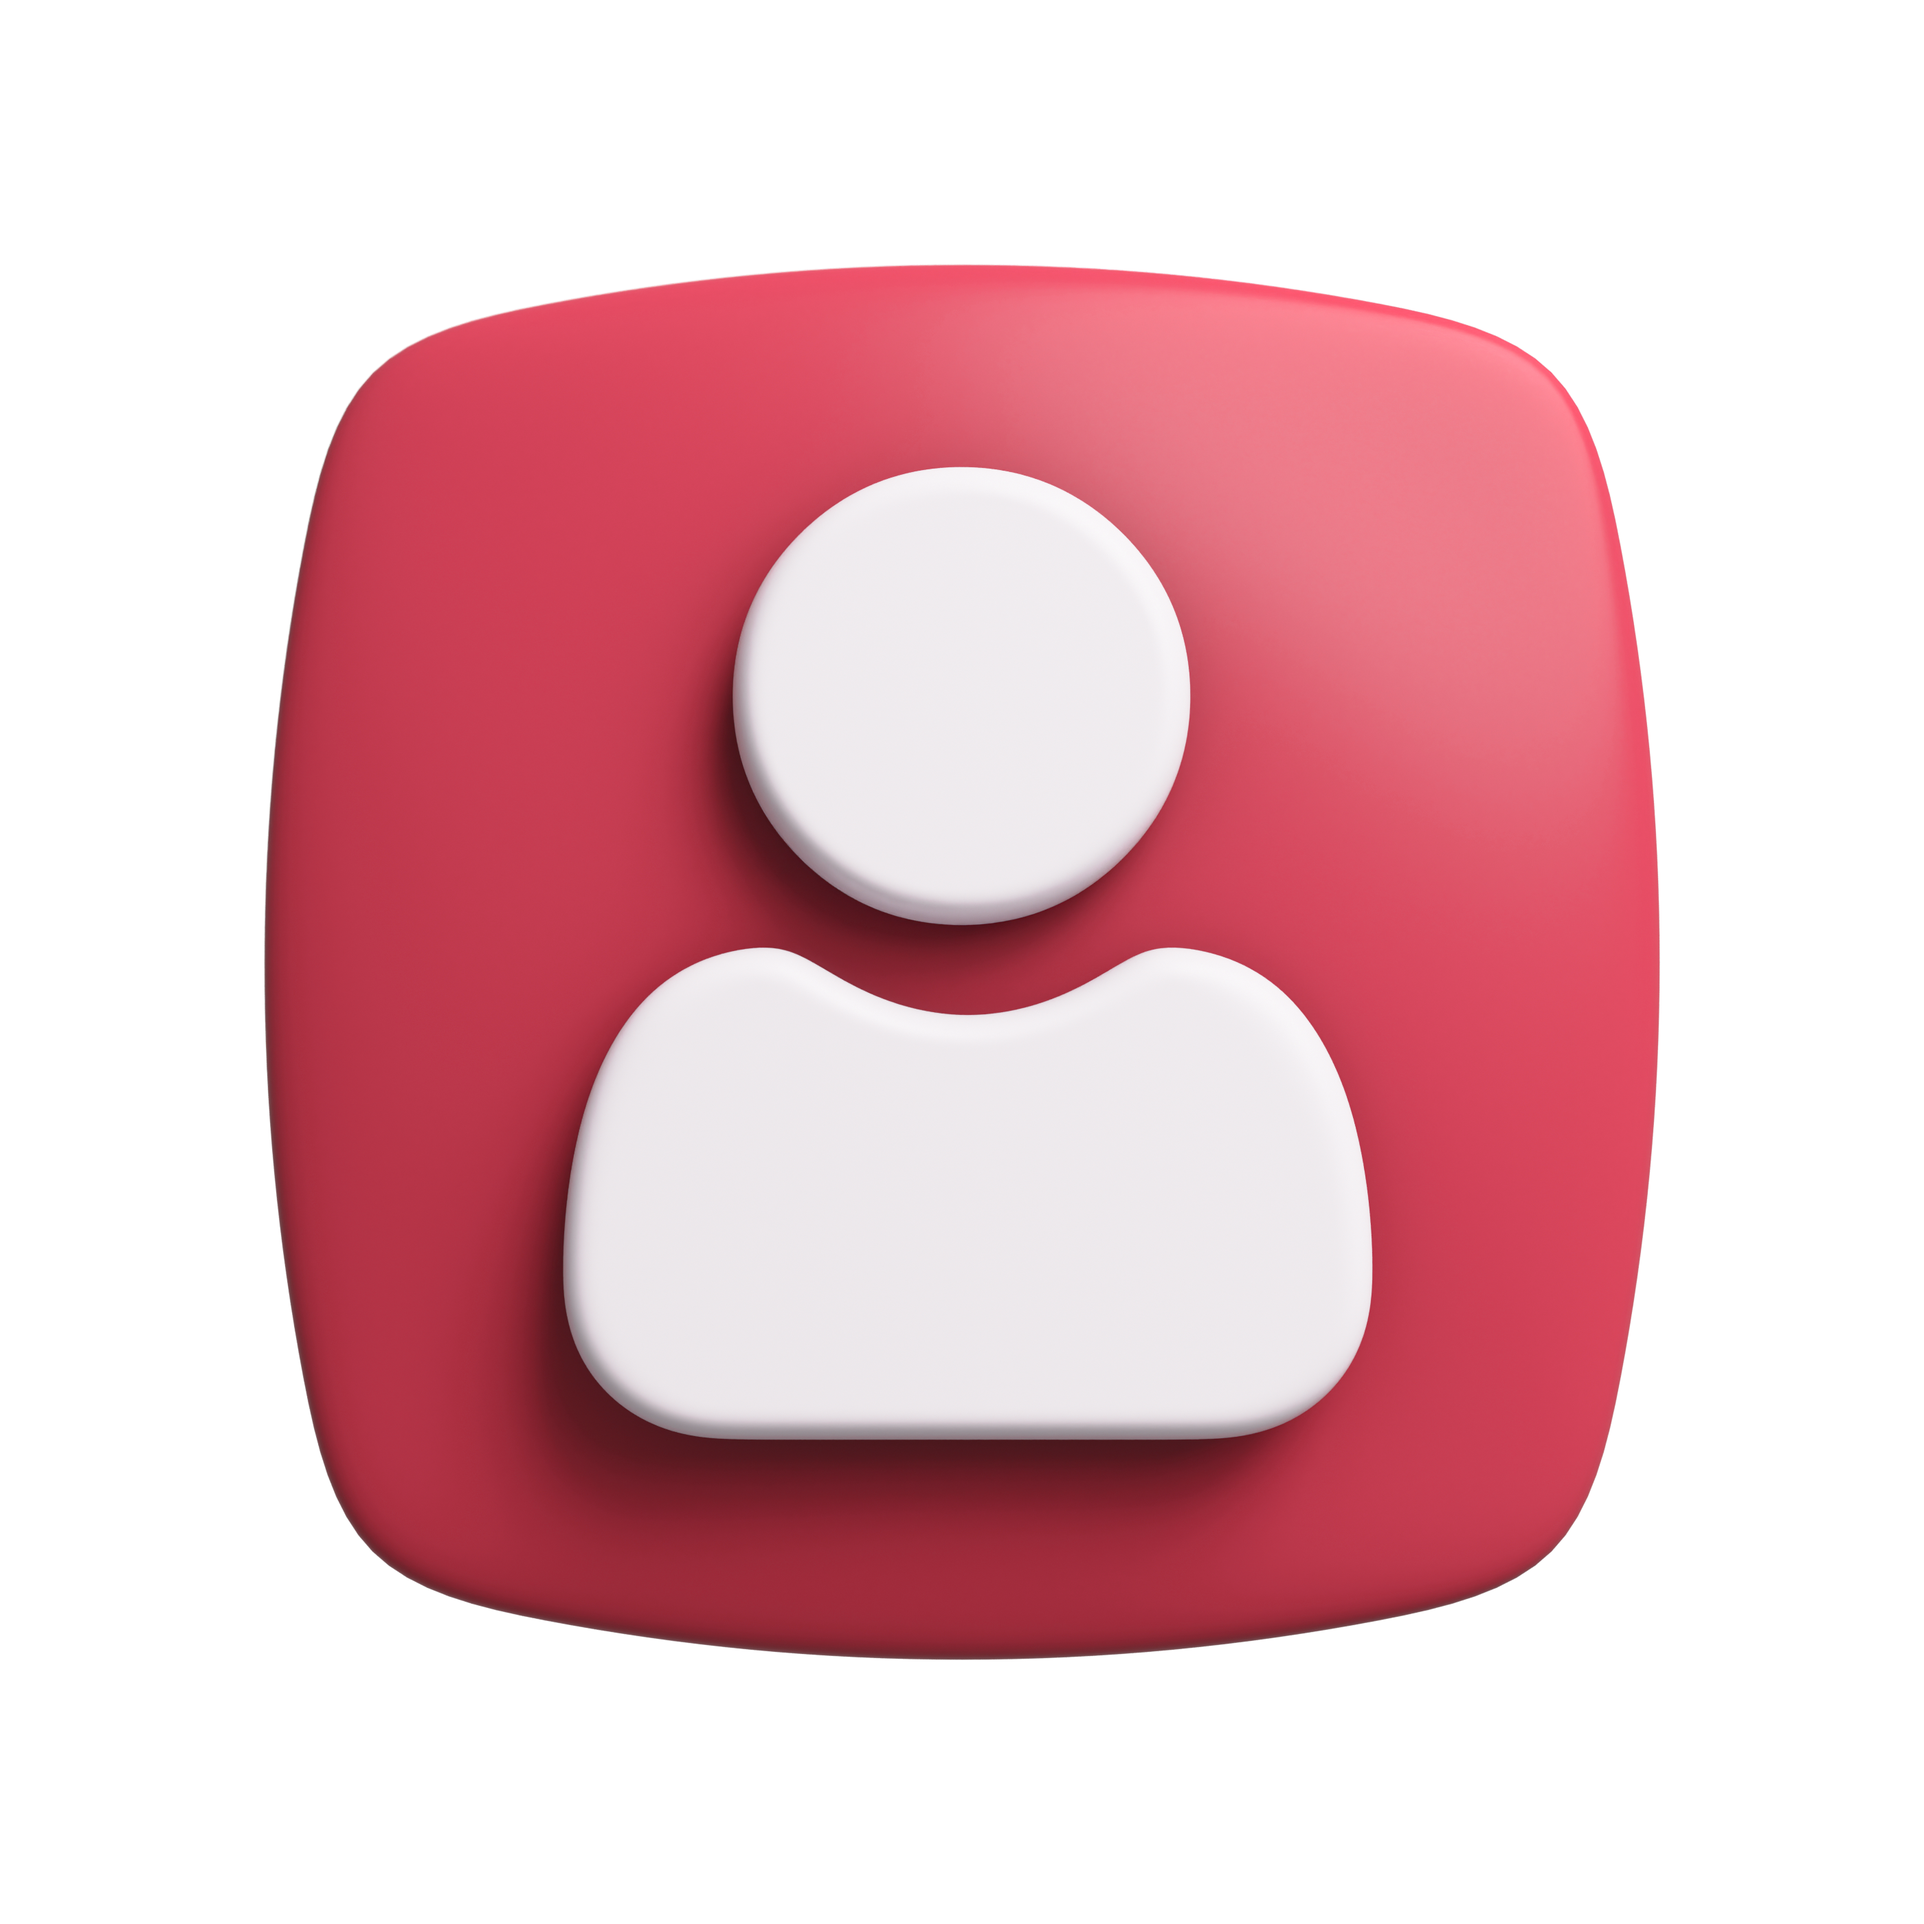
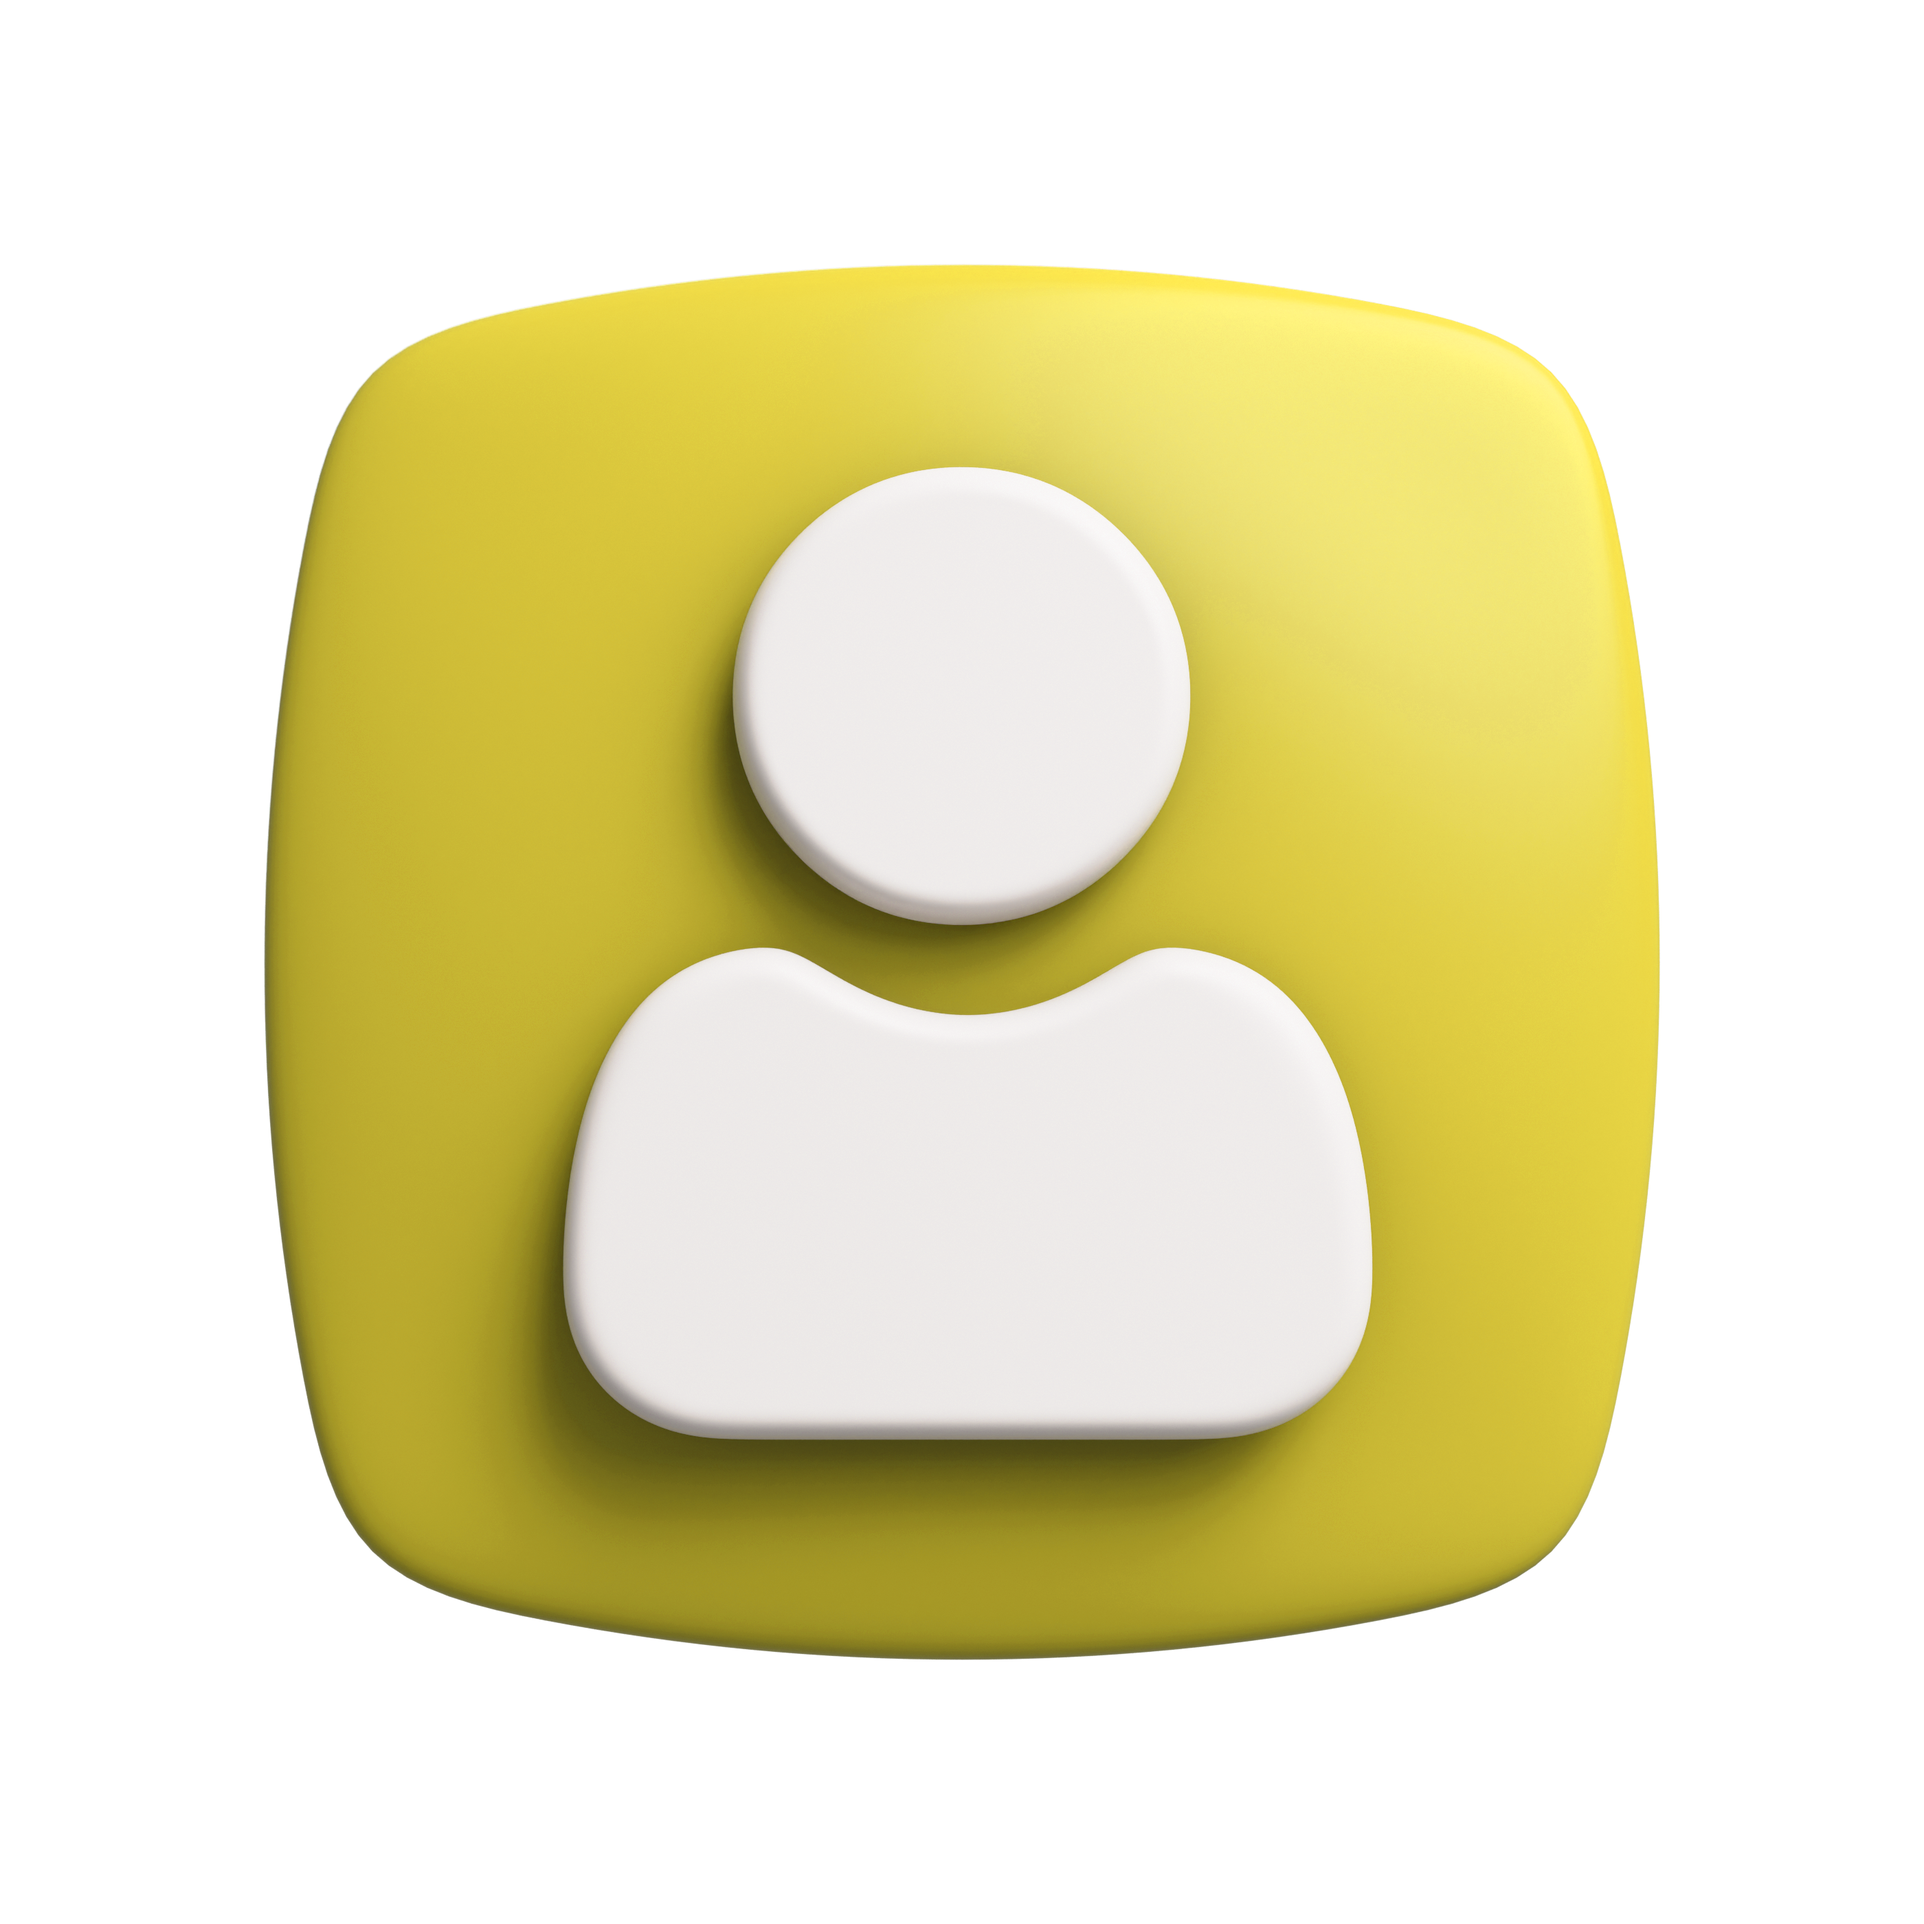
atualização de style

diff --git a/src/context/AuthContext.jsx b/src/context/AuthContext.jsx
@@ -48,17 +48,18 @@ export const AuthProvider = ({ children }) => {
     fetchData();
   }, [isLogin, contactList]);
 
+
   const getUser = async () => {
     try {
       api.defaults.headers.common["Authorization"] = `Bearer ${token}`;
-      const response = await api.get("/users/user");
-
+      const response = await api.get(`/users/user`);
       return response.data;
     } catch (error) {
-      console.error("Erro ao obter o usuário", error);
-      return null;
+      console.error("Erro ao buscar o usuário", error);
     }
   };
+
+  
   const onSubmitLogin = async (data) => {
     setLoading(true);
     setTimeout(async () => {
@@ -119,8 +120,8 @@ export const AuthProvider = ({ children }) => {
   const handleUpdateUser = async (id, data) => {
     try {
       api.defaults.headers.common["Authorization"] = `Bearer ${token}`;
-      const response = await api.patch(`/users/${id}`, data);
-      const updatedUser = response.data;
+      await api.patch(`/users/${id}`, data);
+      const updatedUser = await getUser();
       setUser(updatedUser);
       setToastMessage("Usuário atualizado com sucesso!");
     } catch (error) {
@@ -219,18 +220,30 @@ export const AuthProvider = ({ children }) => {
     }
   };
 
-  const handleDeleteTelefone = async (Telefoneid, contactId) => {
+  const handleDeleteTelefone = async (Telefoneid, contactId, tipo) => {
     try {
       api.defaults.headers.common["Authorization"] = `Bearer ${token}`;
       await api.delete(`/telefones/${Telefoneid}`);
-
-      const updatedContactList = contactList.filter(
-        (contact) => contact.id !== contactId
-      );
-
-      setContactList(updatedContactList);
+  
+      if (tipo === 'contato') {
+        const updatedContactList = contactList.map((contact) => {
+          if (contact.id === contactId) {
+            contact.telefones = contact.telefones.filter(
+              (telefone) => telefone.id !== Telefoneid
+            );
+          }
+          return contact;
+        });
+  
+        setContactList(updatedContactList);
+      } else if (tipo === 'user') {
+        const updatedUser = await getUser();
+      setUser(updatedUser);
+      setToastMessage("Telefone deletado com sucesso!");
+      }
+  
     } catch (error) {
-      alert("Ops! Algo deu errado ao deletar o contato!");
+      setToastMessage("Ops! Algo deu errado ao deletar o telefone!");
     }
   };
 

diff --git a/src/components/UserProfile/UserProfile.jsx b/src/components/UserProfile/UserProfile.jsx
@@ -116,7 +116,7 @@ export const UserProfile = () => {
                             setEditingPhoneId(null);
                             setEditedPhone(null);
                           }}
-                          className="btn-edit"
+                          className="salvar"
                         >
                           Salvar
                         </button>
@@ -139,7 +139,7 @@ export const UserProfile = () => {
                             </button>
                             <button
                               onClick={() =>
-                                handleDeleteTelefone(user.id, telefone.id)
+                                handleDeleteTelefone(telefone.id, user.id, "user" )
                               }
                               className="btn-delete"
                             >
@@ -152,11 +152,11 @@ export const UserProfile = () => {
                   </div>
                 ))}
               </div>
-              <p>
-                <strong>Conta criada:</strong> {formatDate(user.createdAt)}
+              <p className="dados-da-conta">
+               Conta criada:{formatDate(user.createdAt)}
               </p>
-              <p>
-                <strong>Última atualização:</strong>{" "}
+              <p className="dados-da-conta">
+                Última atualização:{" "}
                 {formatDate(user.updatedAt)}
               </p>
               <div className="containerBtn">
@@ -216,9 +216,9 @@ export const UserProfile = () => {
                   handleUpdateUser(user.id, editedUser);
                   setEditing(false);
                 }}
-                className="btn-save"
+                className="salvar"
               >
-                Salvar
+                Salvar atualização de dados 
               </button>
             </div>
           )}

diff --git a/src/components/UserProfile/userprofileStyle.js b/src/components/UserProfile/userprofileStyle.js
@@ -4,10 +4,10 @@ export const ContainerUserProfile = styled.div`
 
  margin-top: 2em;
 display: flex;
-background-color: white;
 flex-direction: column;
 width: 80%;
 margin-left: 2em;
+padding: 2em;
 .perfil-title{
     display: flex;
    flex-direction: row;
@@ -46,6 +46,14 @@ h1{
     margin-top: 1em;
     font-size: 14px;
 
+}
+.user-details input{
+    border: 1px solid var(--rosa);
+    height: 16px;
+    padding: 10px;
+    width: 30%;
+    font-size: 10px;
+    margin-left: 1em;
 }
 
 .user-details strong{
@@ -116,5 +124,23 @@ h1{
 
 .novoNumero input:focus{
     border: 2px solid var(--azul-escuro);
+}
+
+.user-edit button{
+    background-color: var(--rosa-escuro);   
+    color: white;
+    padding: 3px;
+    border: none;
+    cursor: pointer;
+    margin-top: 1em;
+}
+
+.user-edit button:hover{
+    background-color: var(--azul-escuro);
+    color: white;
+}
+
+.dados-da-conta{
+    font-size: 10px;   
 }
 `

diff --git a/src/components/ContactCard/ContactCardStyle.js b/src/components/ContactCard/ContactCardStyle.js
@@ -26,18 +26,22 @@ ul{
     list-style: none;
     margin-top: 1em;
     flex-wrap: wrap;
-    width: 80%;
-    display: flex;
-    justify-content: space-between;
+    width: 100%;
+    display: flex;    
+    justify-content: flex-start;
     flex-direction: column;
-    border-top: solid 4px var(--azul-escuro);   
+    border-top: solid 4px var(--azul-escuro); 
+    background-color: var(--bg);  
+    padding: 1em;
+    min-width: 150px;
 }
 li{
     margin-top: 1em;
     background-color: white;
     font-size: 12px;
     padding: 10px;
-    border-top: solid 1px var(--azul-claro);
+    border-top: solid 1px var(--azul-claro);   
+     
 }
 
 strong{

diff --git a/src/components/ContactCard/ContatcCard.jsx b/src/components/ContactCard/ContatcCard.jsx
@@ -178,7 +178,7 @@ export const ContactCard = () => {
                         </button>
                         <button
                           onClick={() =>
-                            handleDeleteTelefone(telefone.id, contact.id)
+                            handleDeleteTelefone(telefone.id, contact.id, "contato")
                           }
                           className="btn-delete"
                         >

diff --git a/src/style/App.css b/src/style/App.css
@@ -4,14 +4,14 @@
   display: flex;
   flex-direction: column;
   align-items: center;
+  justify-content: space-between;
 }
 
 
 .main-container{
   display: flex;
-  background-color: #efe1e1;
+  background-color: white;
   width: 100%;
-  height: 100%;
   align-items: center;
 
   justify-content: flex-start;

diff --git a/src/pages/home.jsx b/src/pages/home.jsx
@@ -7,11 +7,7 @@ import { FaReact } from "react-icons/fa";
 import {
   SiTypescript,
   SiNodedotjs,
-  SiPython,
-  SiJest,
-  SiRedux,
   SiPostgresql,
-  SiDjango,
 } from "react-icons/si";
 
 import { UserRegisterForm } from "../components/UserRegisterForm/UserRegisterFormComp";

diff --git a/src/components/Header/headerStyle.js b/src/components/Header/headerStyle.js
@@ -18,7 +18,7 @@ export const ContainerHeader = styled.div`
   }
 
   h1{
-    font-size: 1em;
+    font-size: 1.5em;
     color: white;
   }
 
